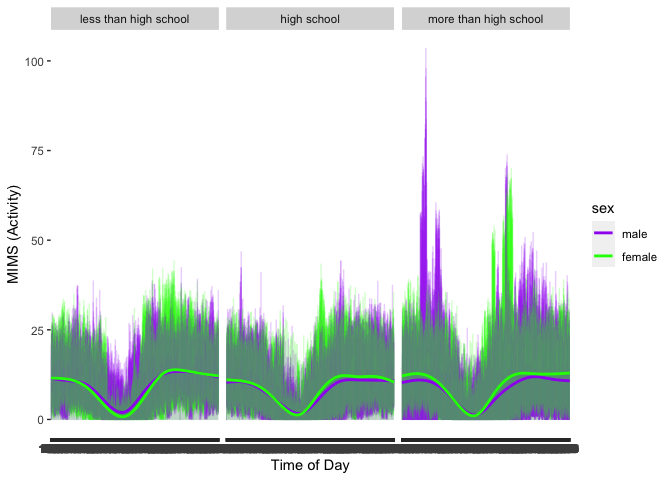
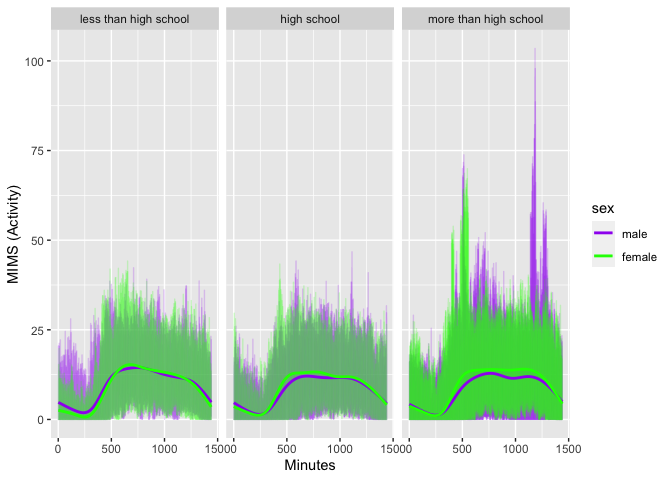
Changed problem 3's final graph and its comment

diff --git a/p8105_hw3_qw2418.md b/p8105_hw3_qw2418.md
@@ -518,11 +518,12 @@ group has a higher total activity than the male group.
 
 ``` r
 nhanes |>
+  mutate(minutes = as.numeric(minutes)) |>
   ggplot(aes(x = minutes, y = MIMS, color = sex)) +
   geom_line(alpha = 0.2) +
   geom_smooth(aes(group = sex), se = FALSE) +
   facet_wrap(~ education) +
-  labs(x = "Time of Day", y = "MIMS (Activity)") +
+  labs(x = "Minutes", y = "MIMS (Activity)") +
   scale_color_manual(values = c("male" = "purple", "female" = "green"))
 ```
 
@@ -535,10 +536,10 @@ nhanes |>
 From the graph, it is clear that both age groups have the similar trend
 of MIMS activity across the time of day in less than education and
 equivalent to education groups, in which they have their minimum value
-in the middle time of the day. In the more than education group,
-although male and female group also share the similar trend as the other
-two education groups with their minimum value of MIMS activities in the
+in the early time of the day. In the more than education group, although
+male and female group also share the similar trend as the other two
+education groups with their minimum value of MIMS activities in the
 middle time of the day, there are some slight difference between the two
-gender groups. The male group has higher MIMS activities in the early
-times of the day and the late times of the day, which the female group
-has higher MIMS activities in the middle times of the day.
+gender groups. The female group has higher MIMS activities in the early
+to middle times of the day, and the male group has higher MIMS
+activities in the late times of the day.
